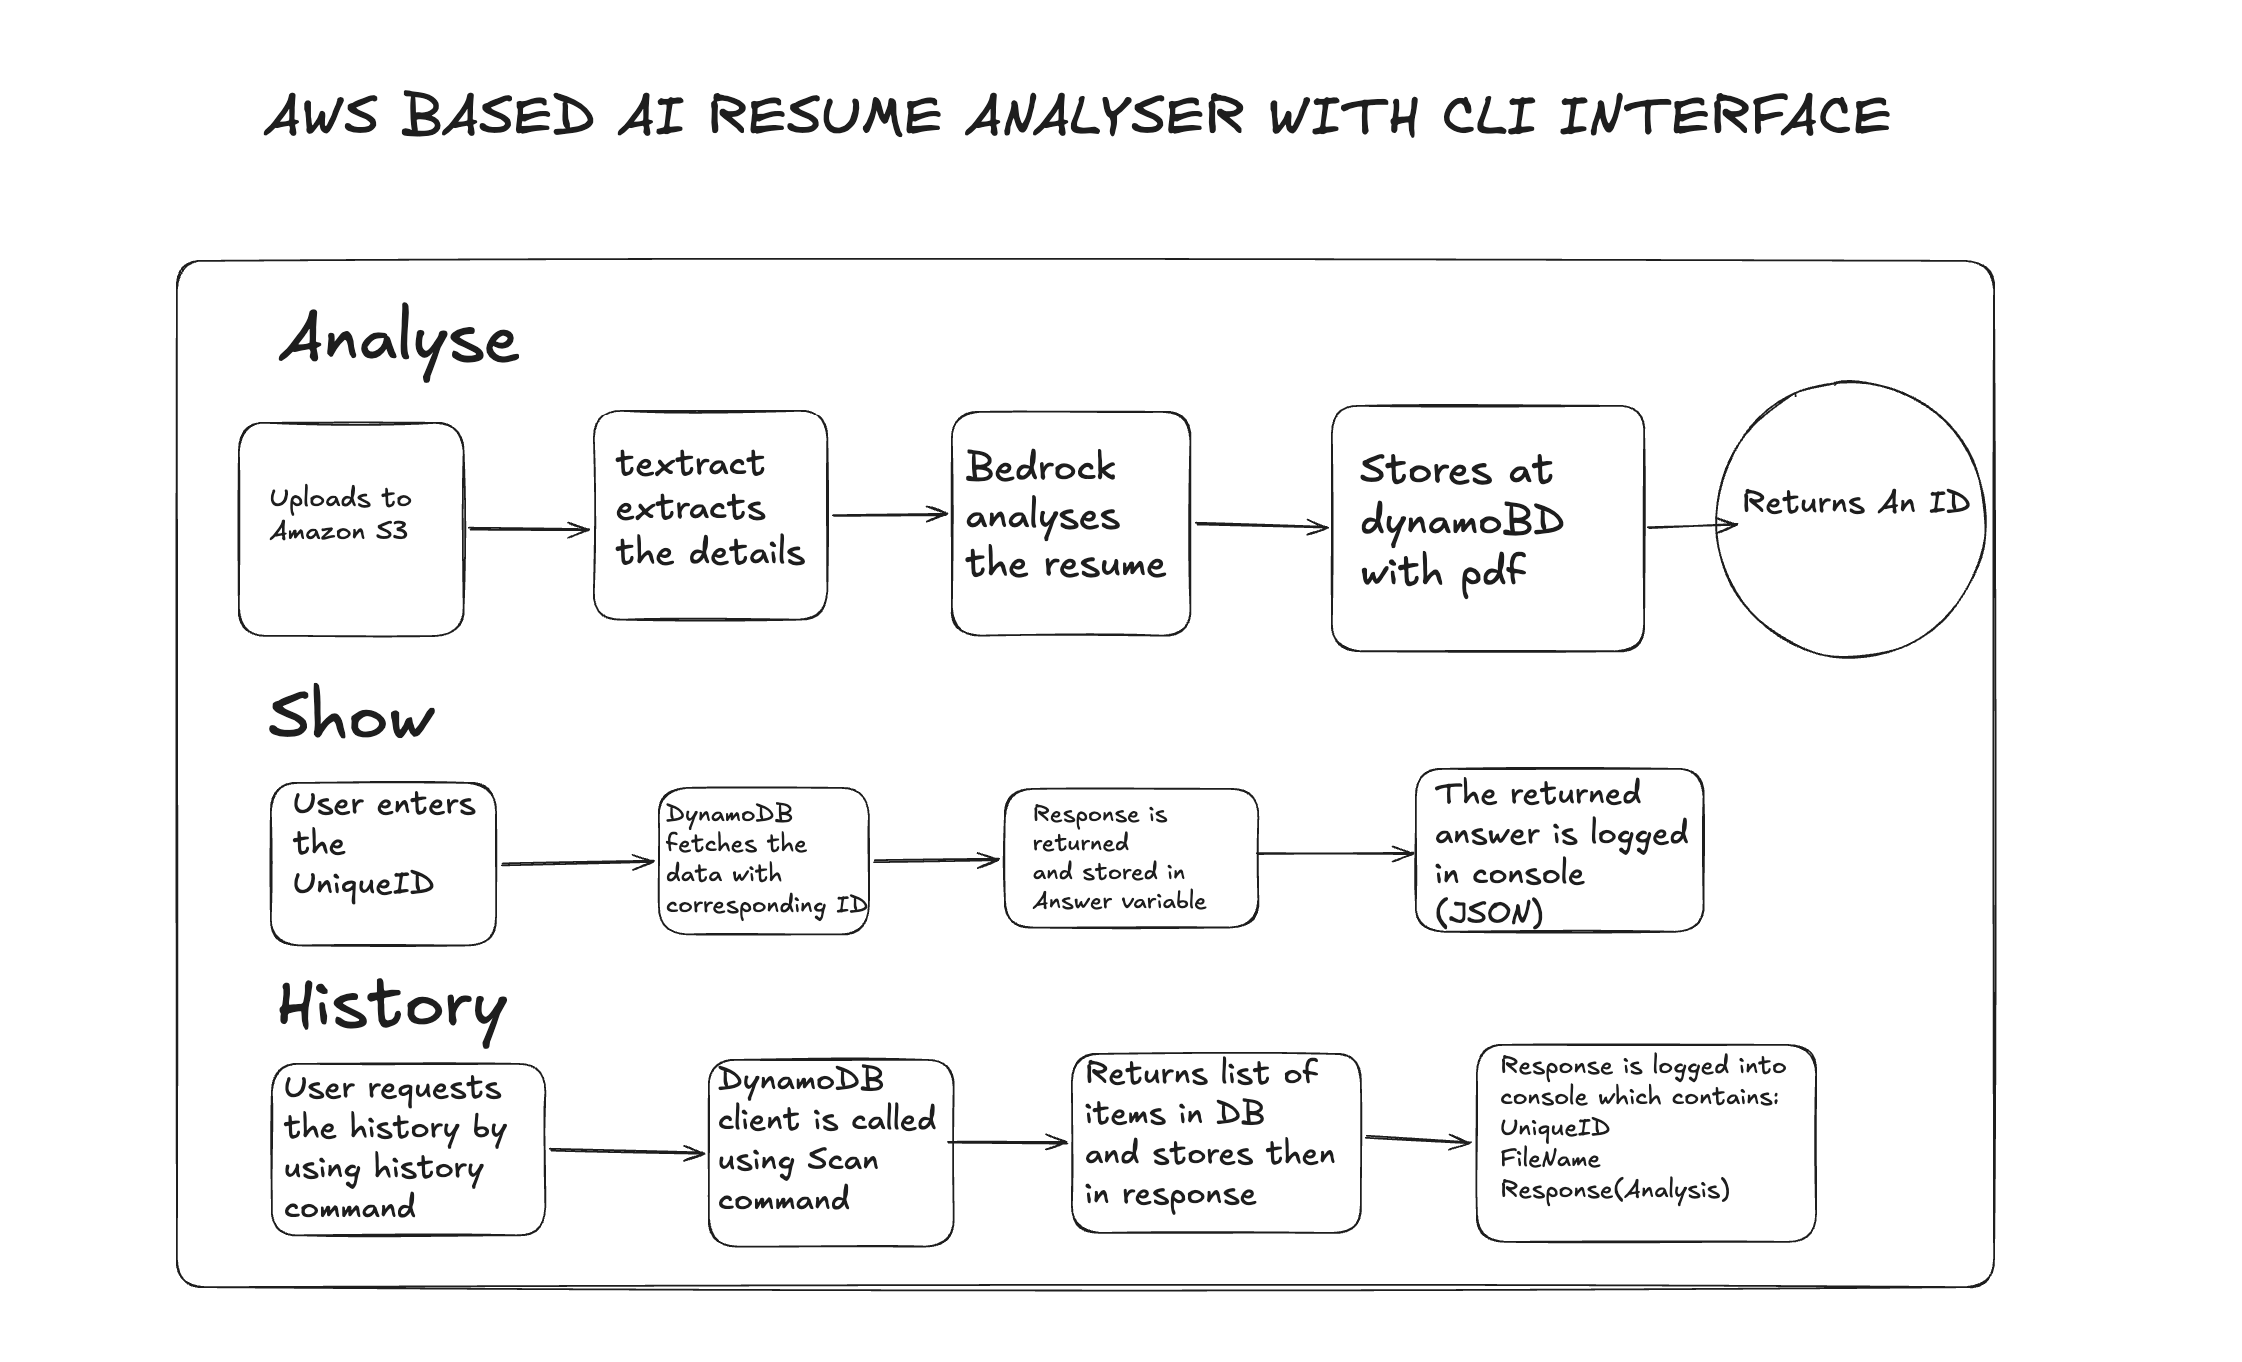
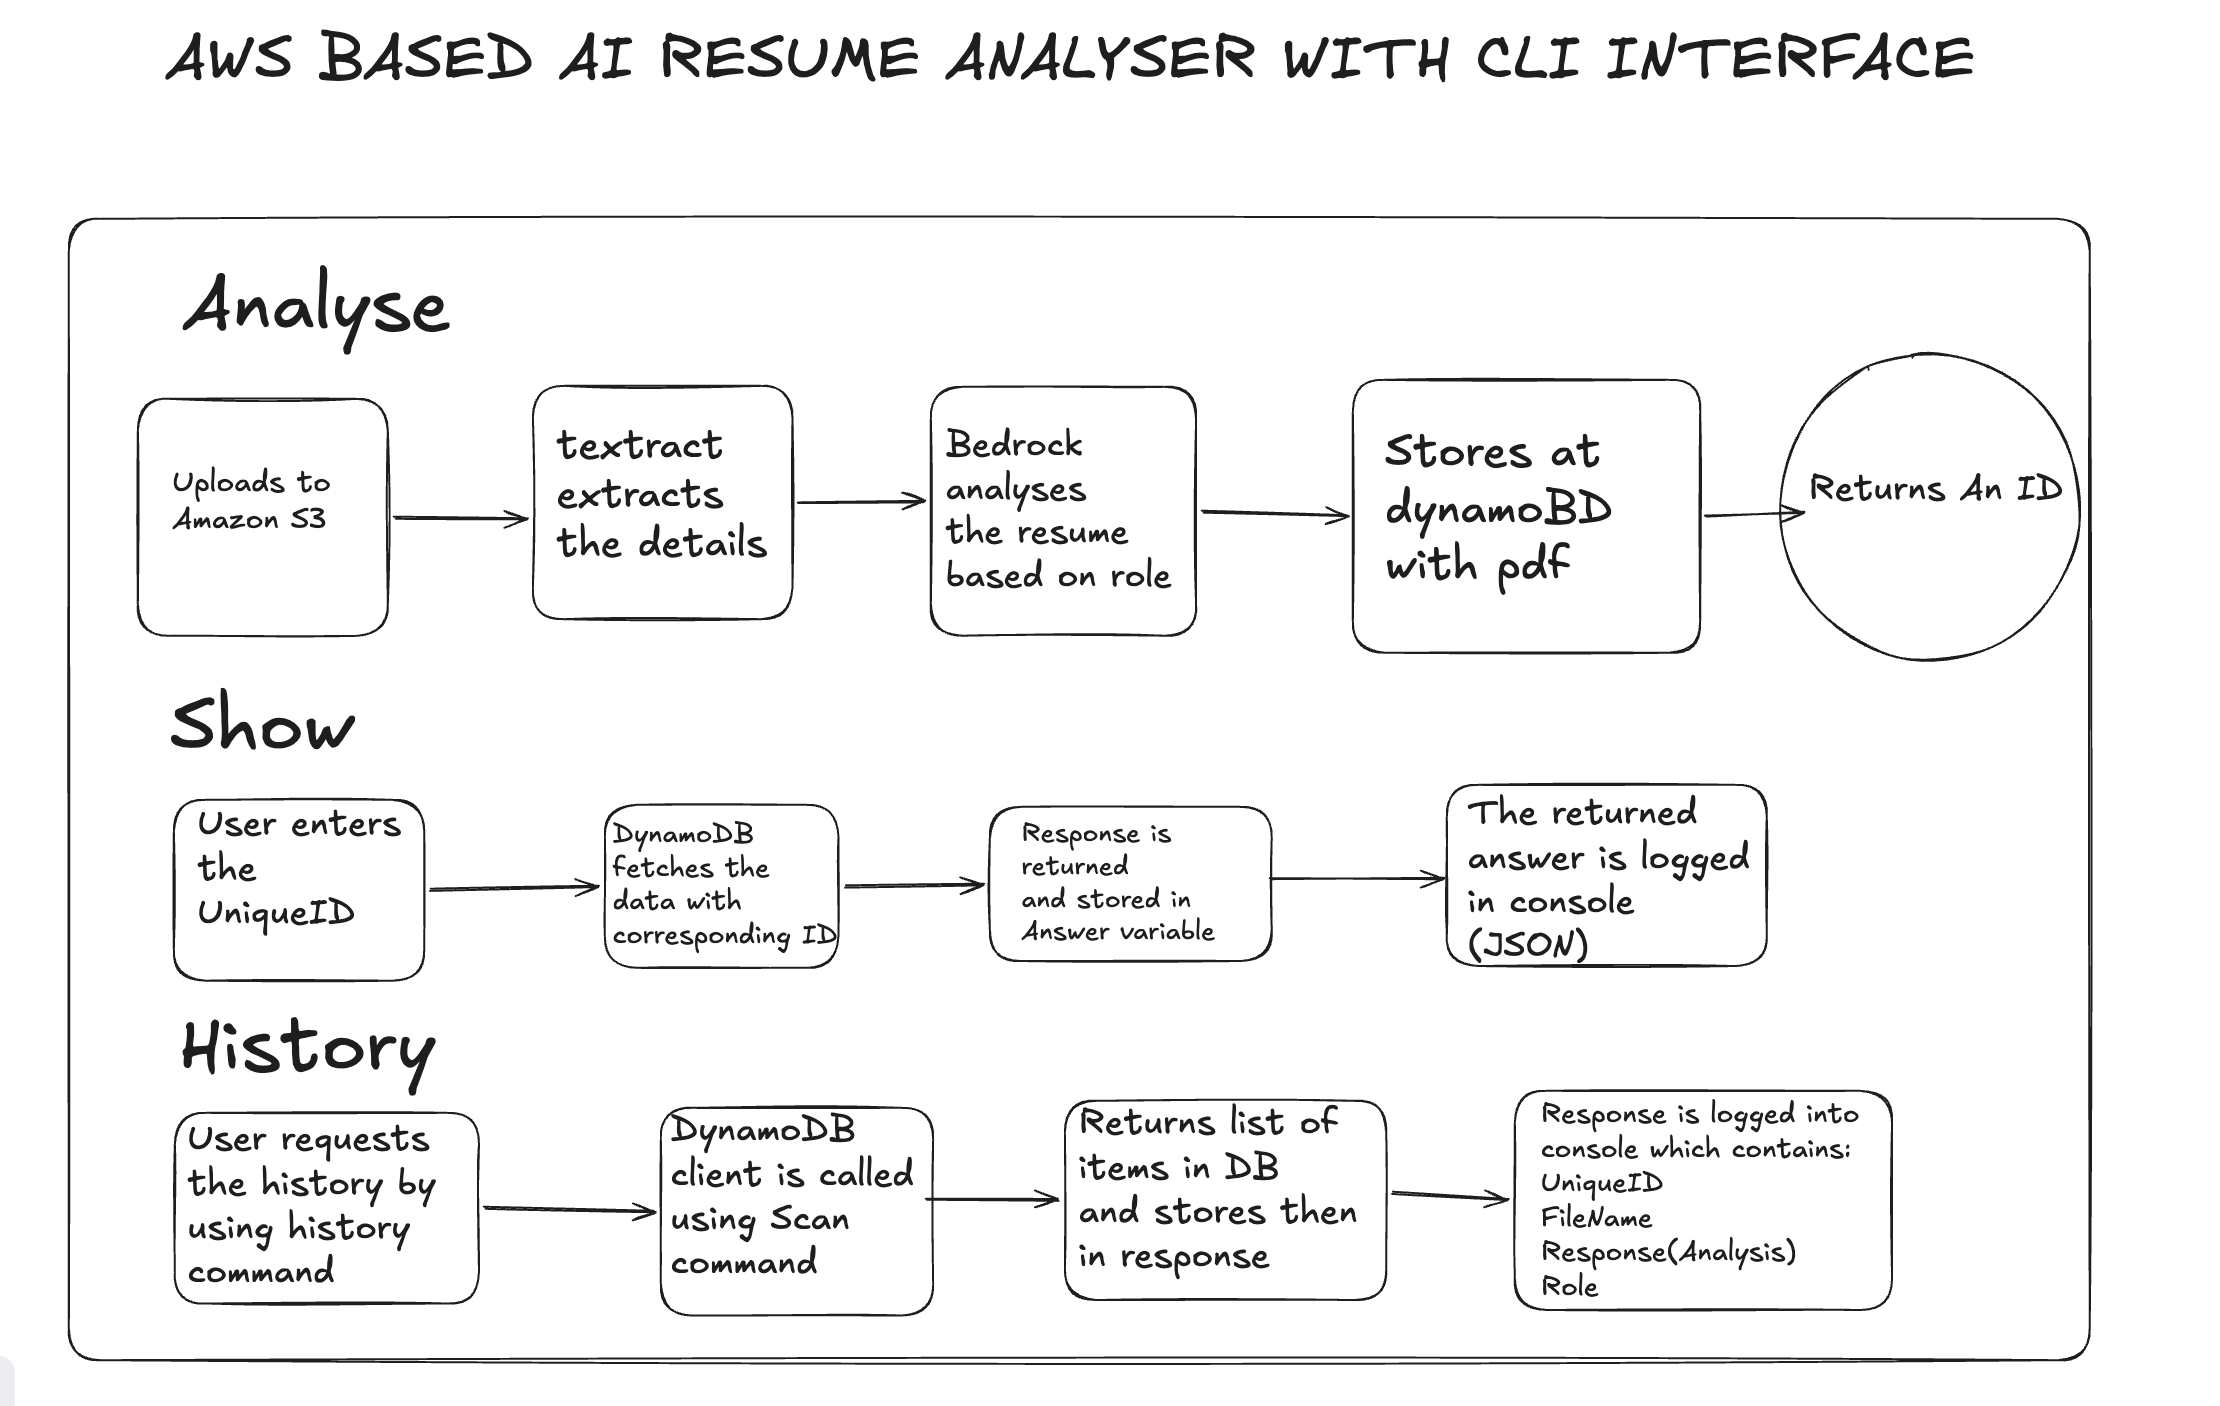
updated readme with ss

diff --git a/index.js b/index.js
@@ -15,7 +15,7 @@ program
   )
   .argument("<resume>")
   .argument("<role>")
-  .action(async (resume,role) => await analyse(resume,role));
+  .action(async (resume, role) => await analyse(resume, role));
 program
   .command("history")
   .description("Returns a history of resumes uploaded with its id")

diff --git a/README.md b/README.md
@@ -1,17 +1,17 @@
 # AWS based AI Resume Analyser (CLI)
 
-It is a CLI tool that analyzes resumes using AWS services and an LLM.
-Upload a resume PDF, get an ATS score, strengths/weaknesses breakdown, and improvement suggestions.
-Saved in Database to access other resume.
+It is a CLI tool that analyzes resumes based on given role using AWS services and an LLM.
+Upload a resume PDF, get an ATS score, strengths/weaknesses breakdown, and improvement suggestions for the particular role.
+Saved in Database to access other resumes.
 
 ## Features
 
-- Extracts text from resume PDFs
-- Analyzes the resume using an LLM (Amazon Bedrock)
-- Generates an Overall Score and ATS Score (0–100)
-- Lists strengths, weaknesses, and missing skills
-- Suggests concrete improvements
-- Saves every analysis so it can be looked up later by ID
+- Extracts text from resume PDFs.
+- Analyzes the resume based on given role using an LLM (Amazon Bedrock).
+- Generates an Overall Score and ATS Score (0–100).
+- Lists strengths, weaknesses, and missing skills for the role.
+- Suggests concrete improvements.
+- Saves every analysis so it can be looked up later by ID.
 
 ## Tech Stack
 
@@ -38,14 +38,14 @@ Saved in Database to access other resume.
 
 ![File Structure](./assests/img/flowchart.png)
 
-**Design principle:** commands orchestrate, services execute. Each AWS service is isolated in its own file, so swapping implementations (e.g. Textract → local `pdf-parse`, or Bedrock → direct Anthropic API) only touches one file.
+**Design principle:** Each AWS service is isolated in its own file, so swapping implementations (e.g. Textract → local `pdf-parse`, or Bedrock → direct Anthropic API) only touches one file.
 
 ## AWS Resources Used
 
 | Resource             | Purpose                                                              |
 | -------------------- | -------------------------------------------------------------------- |
 | S3 bucket            | Stores uploaded resume PDFs                                          |
-| DynamoDB table       | Stores analysis results, keyed by a unique numeric ID                |
+| DynamoDB table       | Stores analysis results, keyed by a unique numeric ID,with role      |
 | Bedrock model access | Runs the LLM analysis (Anthropic Claude, or an alternative provider) |
 | IAM user + policy    | Scoped permissions for S3, Bedrock, DynamoDB, and Textract           |
 
@@ -54,9 +54,7 @@ Saved in Database to access other resume.
 - `s3:PutObject`, `s3:GetObject`
 - `bedrock:InvokeModel`
 - `dynamodb:PutItem`, `dynamodb:GetItem`, `dynamodb:Scan`
-- `textract:*` _(if using Textract instead of the local fallback)_
 - `aws-marketplace:Subscribe`, `aws-marketplace:Unsubscribe`, `aws-marketplace:ViewSubscriptions`
-  > **Note on least privilege:** during development it's common to prototype with broad managed policies (e.g. `AmazonS3FullAccess`) and tighten to a scoped custom policy once resource names/ARNs are finalized. This project's design keeps AWS calls isolated per-service specifically to make that tightening easy.
 
 ## Known Issues / Notes
 
@@ -95,7 +93,7 @@ Saved in Database to access other resume.
 
 ```bash
 # Analyze a resume
-node index.js analyse ./path/to/resume.pdf
+node index.js analyse ./path/to/resume.pdf <role>
 
 # View all past analyses
 node index.js history
@@ -108,6 +106,7 @@ node index.js show <analysisId>
 
 ![output1](./assests/img/output1.png)
 ![output2](./assests/img/output2.png)
+![output2](./assests/img/output3.png)
 
 ## Bibliography
 
